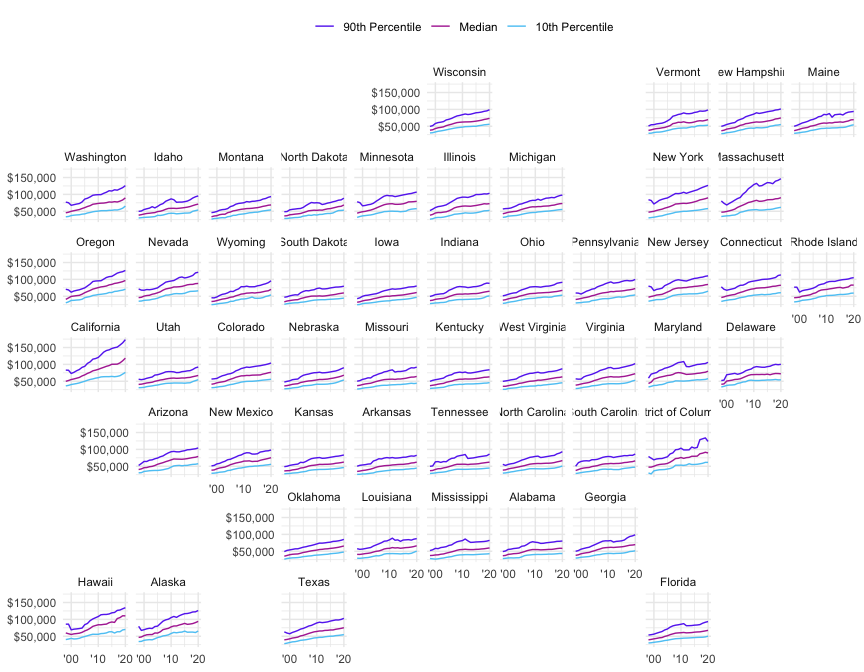
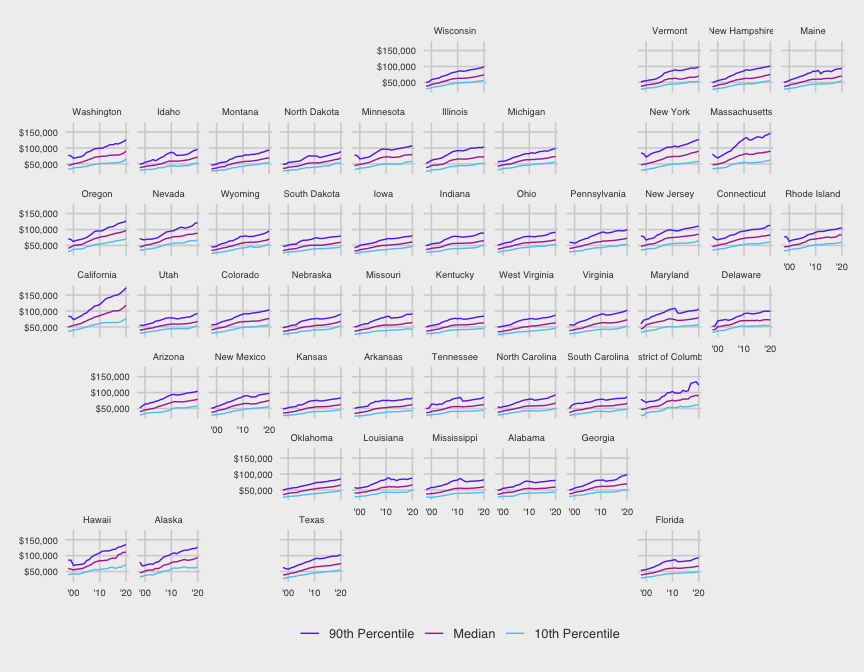
picture update

diff --git a/2021-10-08-nurses/nurses-plots.md b/2021-10-08-nurses/nurses-plots.md
@@ -157,7 +157,16 @@ ggplot(nurses_geo, aes(x = year, y = amount, color = annual_salary_band)) +
   scale_y_continuous(labels = scales::dollar) +
   scale_x_continuous(breaks = c(2000, 2010, 2020), 
                      labels = c("'00", "'10", "'20")) +
-  theme(legend.position = "top")
+  ggthemes::theme_fivethirtyeight() +
+  theme(strip.text = element_text(size = 7),
+        axis.text = element_text(size = 7))
 ```
 
 ![](nurses-plots_files/figure-markdown_github/unnamed-chunk-9-1.png)
+
+I saved this picture for future use.
+
+``` r
+ggsave(here::here("2021-10-08-nurses", "geo_facet.png"), 
+       width = 10, height = 6, dpi = 600)
+```
